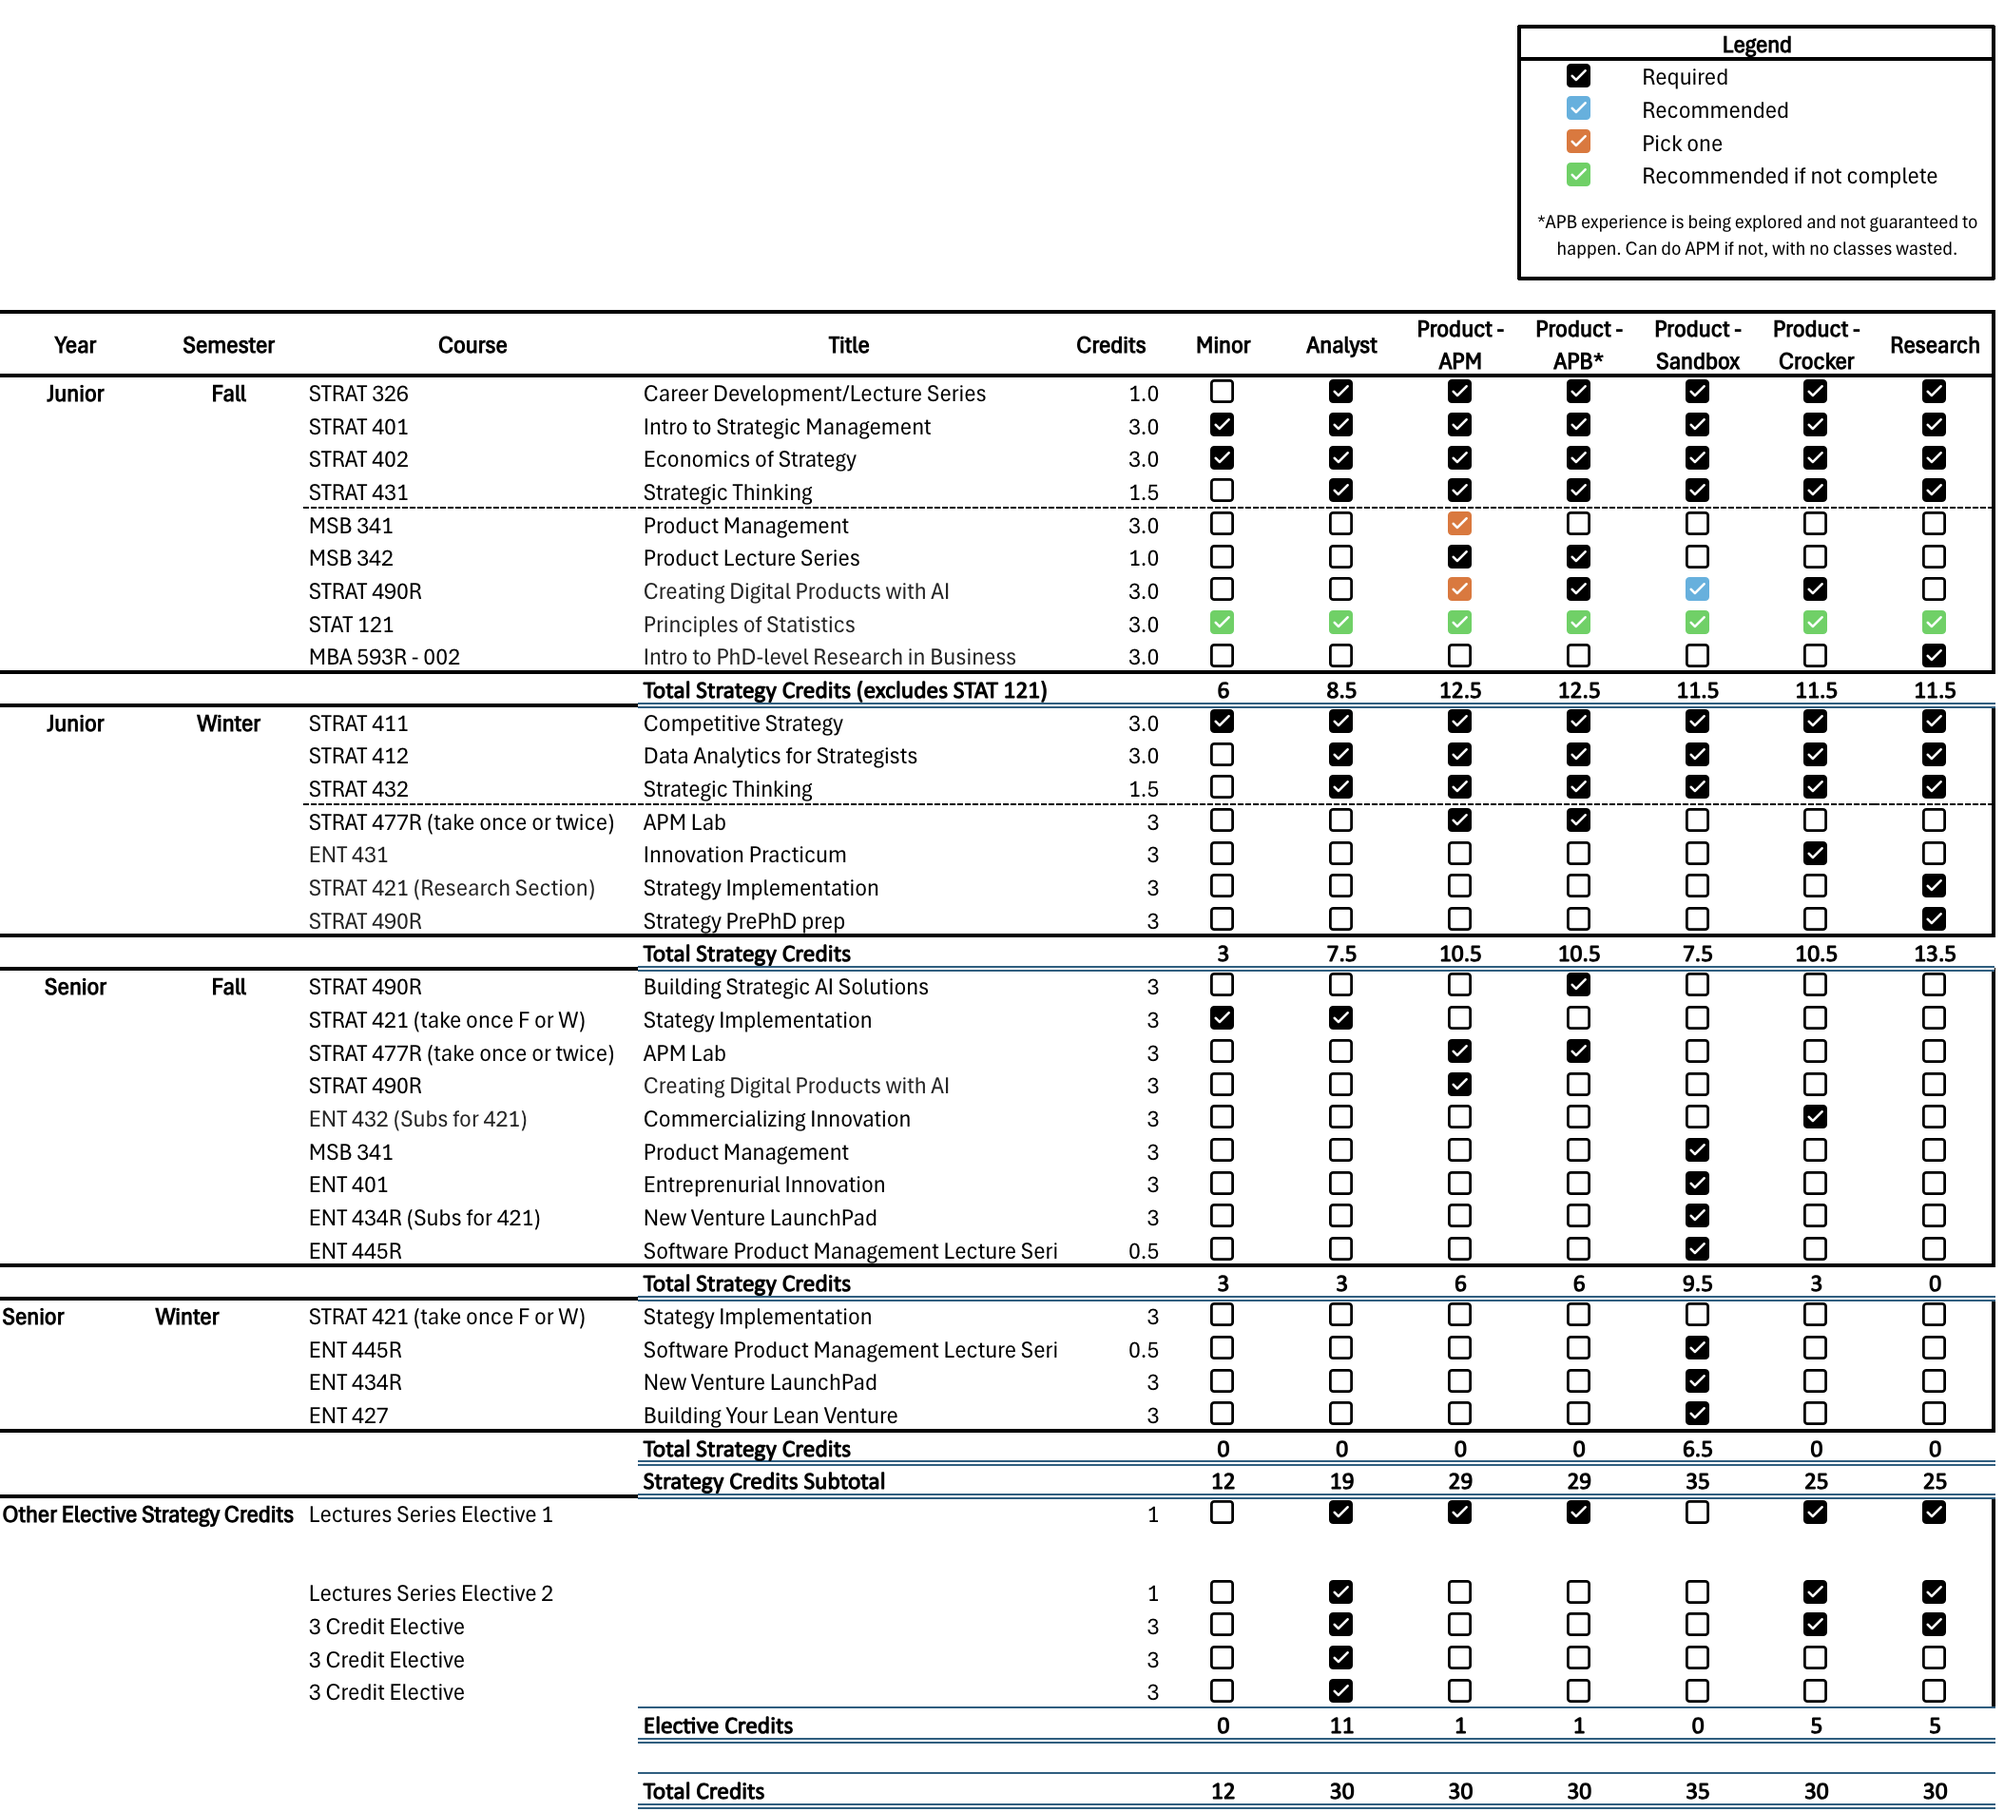
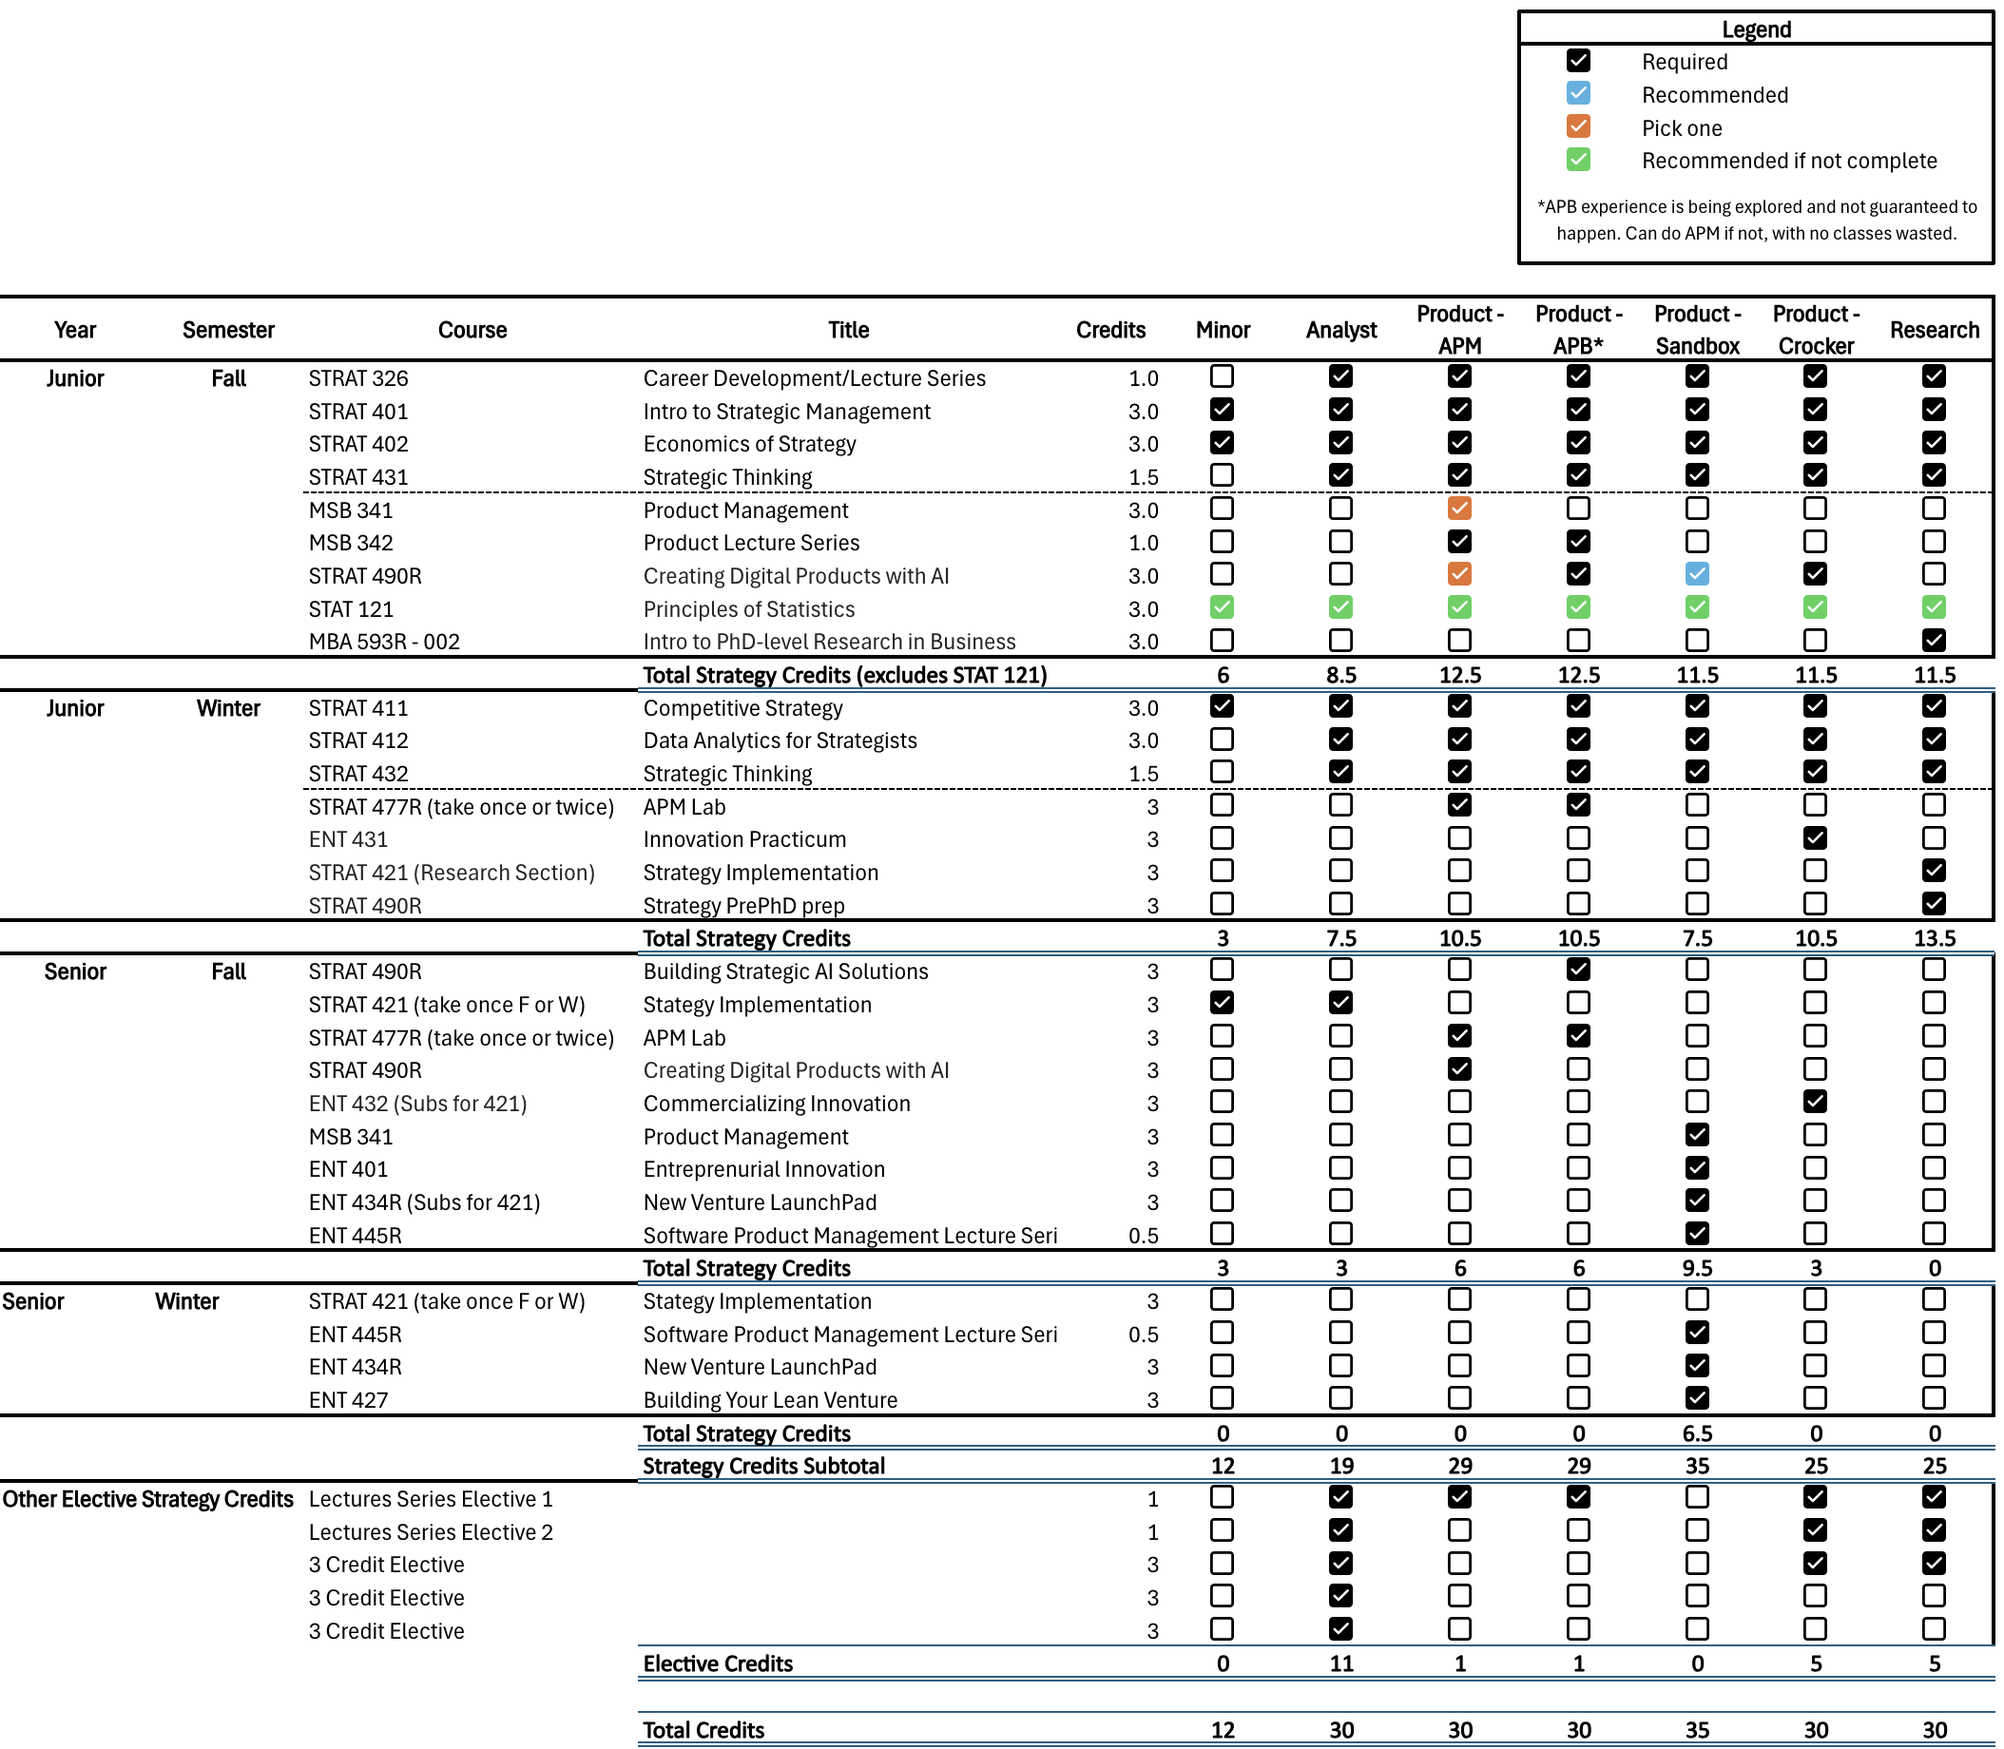
update track chart

Changed region(s): [[0.0, 0.0, 1.0, 1.0]]

diff --git a/docs/02-tracks.html b/docs/02-tracks.html
@@ -193,7 +193,7 @@ ul.task-list li input[type="checkbox"] {
   <li><a href="#product-track" id="toc-product-track" class="nav-link" data-scroll-target="#product-track">Product Track</a>
   <ul class="collapse">
   <li><a href="#associate-product-manager-apm-internship" id="toc-associate-product-manager-apm-internship" class="nav-link" data-scroll-target="#associate-product-manager-apm-internship">Associate Product Manager (APM) Internship</a></li>
-  <li><a href="#associate-product-builder-apb-fellowship-coming-soon-details-may-change" id="toc-associate-product-builder-apb-fellowship-coming-soon-details-may-change" class="nav-link" data-scroll-target="#associate-product-builder-apb-fellowship-coming-soon-details-may-change">Associate Product Builder (APB) Fellowship (Coming Soon; details may change)</a></li>
+  <li><a href="#associate-product-builder-apb-fellowship-tentatively-offered-starting-winter-2026-details-subject-to-change" id="toc-associate-product-builder-apb-fellowship-tentatively-offered-starting-winter-2026-details-subject-to-change" class="nav-link" data-scroll-target="#associate-product-builder-apb-fellowship-tentatively-offered-starting-winter-2026-details-subject-to-change">Associate Product Builder (APB) Fellowship (tentatively offered starting Winter 2026; details subject to change)</a></li>
   <li><a href="#sandbox" id="toc-sandbox" class="nav-link" data-scroll-target="#sandbox">Sandbox</a></li>
   <li><a href="#crocker-innovation-fellowship-6.0-credits" id="toc-crocker-innovation-fellowship-6.0-credits" class="nav-link" data-scroll-target="#crocker-innovation-fellowship-6.0-credits">Crocker Innovation Fellowship (6.0 credits)</a></li>
   </ul></li>
@@ -263,8 +263,8 @@ ul.task-list li input[type="checkbox"] {
 </figure>
 </div>
 </section>
-<section id="associate-product-builder-apb-fellowship-coming-soon-details-may-change" class="level3 unnumbered">
-<h3 class="unnumbered anchored" data-anchor-id="associate-product-builder-apb-fellowship-coming-soon-details-may-change">Associate Product Builder (APB) Fellowship (Coming Soon; details may change)</h3>
+<section id="associate-product-builder-apb-fellowship-tentatively-offered-starting-winter-2026-details-subject-to-change" class="level3 unnumbered">
+<h3 class="unnumbered anchored" data-anchor-id="associate-product-builder-apb-fellowship-tentatively-offered-starting-winter-2026-details-subject-to-change">Associate Product Builder (APB) Fellowship (tentatively offered starting Winter 2026; details subject to change)</h3>
 <p>The Associate Product Builder (APB) Fellowship is a 12-month experiential learning experience where students build and deliver to market a pre-validated product concept from the Strategy Foundry and seek to earn real revenue, starting Winter of their junior year. The experience is partly modeled after LinkedIn’s first-ever <a href="https://careers.linkedin.com/pathways-programs/entry-level/apb">Associate Product Builder (APB) program</a>.</p>
 <p>“We are entering a new era of building. And the full-stack builder archetype is arising with it. A full-stack builder is capable of developing experiences, combining skills &amp; expertise, across traditionally distinct domains (e.g.&nbsp;design, product management, technology, business strategy).”</p>
 <p>Tomer Cohen, Chief Product Officer at LinkedIn</p>
